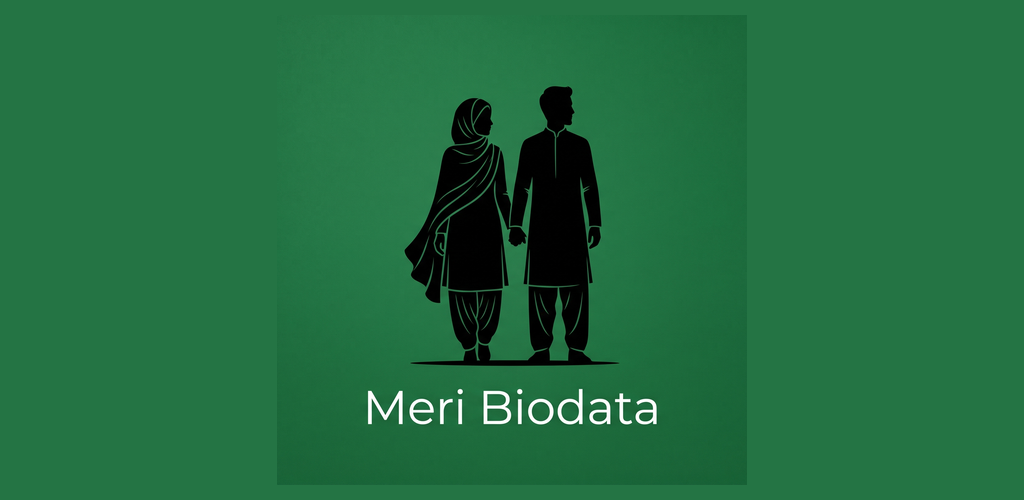
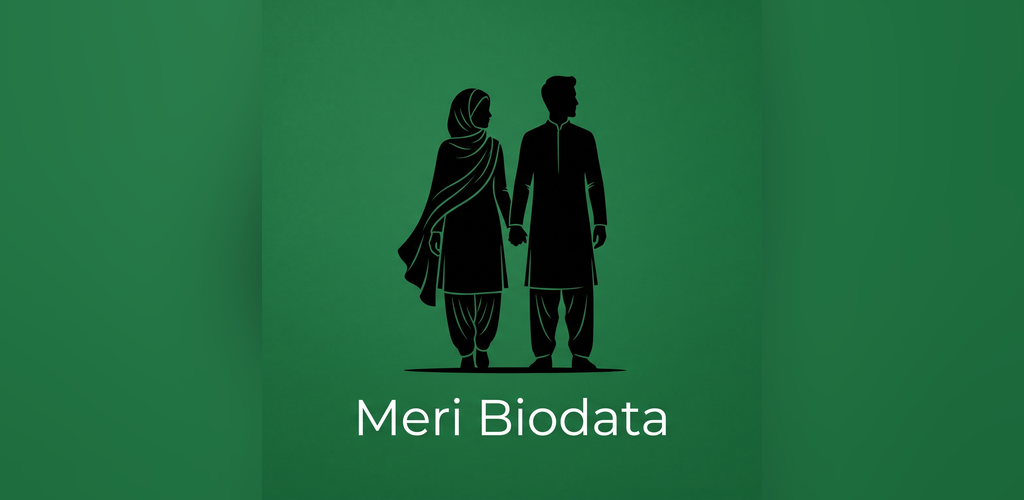
docs: Play Store listing assets
Five phone screenshots at 1080x1920, captured from a release build on an
emulator and processed by tool/make_screenshots.py. Raw captures are 1280x2856,
a ratio of 1:2.23 — taller than 9:16, so Play rejects them unedited. The script
crops the status bar (an emulator clock and a VPN icon that have nothing to do
with the app) and the bottom strip carrying the ad banner, which during testing
reads "Test Ad" and would make a store screenshot look broken rather than
honest. What remains is centre-cropped to exactly 9:16 and resized.

Ordered strongest first, since Play shows them in order and the opening two
carry the listing: the border artwork, a finished document, choosing a template,
the form, then the library.

The feature graphic is rebuilt. Scaling the square mark to fill 1024x500 cropped
the heads off and lost the wordmark; pasting it onto a flat green rectangle left
a visible seam, because the artwork's green is faintly textured and no sampled
flat colour matches it. The backdrop is now the artwork itself, scaled to fill
and blurred hard — same texture and same green by construction, so there is
nothing to mismatch — with the whole mark sharp on top.

Not included: tablet screenshots. Driving the tablet layout blind produced four
captures of the same screen, and the attempt showed something worth knowing
anyway — on a large screen the content stretches full width and reads as sparse.
The phone screenshots meet the tablet slots' size rules and can be used there
meanwhile.

Changed region(s): [[0.375, 0.15, 0.625, 0.75], [0.3438, 0.78, 0.6562, 0.87]]

diff --git a/tool/make_screenshots.py b/tool/make_screenshots.py
@@ -1,0 +1,76 @@
+# -*- coding: utf-8 -*-
+"""Turns raw device captures into Play-compliant store screenshots.
+
+    python tool/make_screenshots.py <capture-dir> <out-dir>
+
+Play requires an aspect ratio between 16:9 and 9:16 with each side 320-3840px,
+and wants at least four at 1080px or more to be eligible for promotion. A raw
+capture from a modern phone is taller than 9:16 — the Pixel emulator gives
+1280x2856, a ratio of 1:2.23 — so uploading one unedited is rejected.
+
+Two things are cropped away before the resize:
+
+* **the status bar**, which shows an emulator clock and a VPN key icon that
+  have nothing to do with the app;
+* **the bottom strip**, which carries the ad banner. During testing that reads
+  "Test Ad", and a store screenshot advertising Google's placeholder looks
+  broken rather than honest. The banner is a real part of the app and is
+  disclosed in the listing text; it just does not belong in a hero image.
+
+What is left is centre-cropped to exactly 9:16 and resized to 1080x1920.
+"""
+
+import os
+import sys
+
+from PIL import Image
+
+# Measured against the Pixel emulator captures at 1280x2856.
+STATUS_BAR = 110
+BOTTOM_STRIP = 470
+
+TARGET = (1080, 1920)
+RATIO = TARGET[0] / TARGET[1]
+
+
+def prepare(image):
+    """Crops the chrome, then centre-crops to 9:16 and resizes."""
+    width, height = image.size
+    trimmed = image.crop((0, STATUS_BAR, width, height - BOTTOM_STRIP))
+
+    # Centre-crop whichever axis is still too long for 9:16.
+    width, height = trimmed.size
+    if width / height > RATIO:
+        keep = round(height * RATIO)
+        left = (width - keep) // 2
+        trimmed = trimmed.crop((left, 0, left + keep, height))
+    else:
+        keep = round(width / RATIO)
+        top = (height - keep) // 2
+        trimmed = trimmed.crop((0, top, width, top + keep))
+
+    return trimmed.resize(TARGET, Image.LANCZOS)
+
+
+def main():
+    if len(sys.argv) != 3:
+        raise SystemExit(__doc__)
+    source, out = sys.argv[1], sys.argv[2]
+    os.makedirs(out, exist_ok=True)
+
+    names = sorted(n for n in os.listdir(source) if n.endswith('.png'))
+    if not names:
+        raise SystemExit('no captures in ' + source)
+
+    for name in names:
+        prepared = prepare(Image.open(os.path.join(source, name)).convert('RGB'))
+        path = os.path.join(out, name)
+        prepared.save(path, 'PNG', optimize=True)
+        kb = os.path.getsize(path) // 1024
+        print('%-28s -> %dx%d  %s KB' % (name, TARGET[0], TARGET[1], kb))
+
+    print('%d screenshots in %s' % (len(names), out))
+
+
+if __name__ == '__main__':
+    main()

diff --git a/tool/make_store_assets.py b/tool/make_store_assets.py
@@ -13,7 +13,7 @@ Writes into docs/brand/store/, which is not shipped in the app.
 
 import os
 
-from PIL import Image
+from PIL import Image, ImageFilter
 
 SOURCE = 'assets/images/meribiodata.png'
 OUT = 'docs/brand/store'
@@ -62,15 +62,28 @@ def main():
     # 1024x500. The artwork is square and the canvas is wide, so the icon is
     # placed rather than stretched — Play crops this graphic differently across
     # surfaces, and anything important near an edge gets cut.
-    feature = Image.new('RGB', (1024, 500), green)
-    # Nearly full height, centred, with green either side. Play crops this
-    # graphic differently across its surfaces, so the wordmark stays in the
-    # middle where no crop can reach it.
-    mark_height = 470
-    mark = flatten(source, green).resize(
-        (mark_height, mark_height), Image.LANCZOS
+    # A square mark cannot fill a 1024x500 canvas: scaling to fill crops the
+    # heads off and loses the wordmark entirely, and pasting it onto a flat
+    # green rectangle leaves a visible seam, because the artwork's green is
+    # faintly textured and no sampled flat colour matches it.
+    #
+    # So the backdrop is the artwork itself — scaled to fill, then blurred hard.
+    # It carries the same texture and the same green by construction, so there
+    # is nothing to mismatch. The whole mark then sits sharp on top of it.
+    flat = flatten(source, green)
+
+    fill = max(1024 / flat.width, 500 / flat.height)
+    backdrop = flat.resize(
+        (round(flat.width * fill), round(flat.height * fill)), Image.LANCZOS
     )
-    feature.paste(mark, ((1024 - mark_height) // 2, (500 - mark_height) // 2))
+    left = (backdrop.width - 1024) // 2
+    top = (backdrop.height - 500) // 2
+    feature = backdrop.crop((left, top, left + 1024, top + 500)).filter(
+        ImageFilter.GaussianBlur(60)
+    )
+
+    mark = flat.resize((500, 500), Image.LANCZOS)
+    feature.paste(mark, ((1024 - 500) // 2, 0))
     feature_path = os.path.join(OUT, 'play-feature-1024x500.png')
     feature.save(feature_path, 'PNG')
     print('wrote', feature_path, feature.size)
